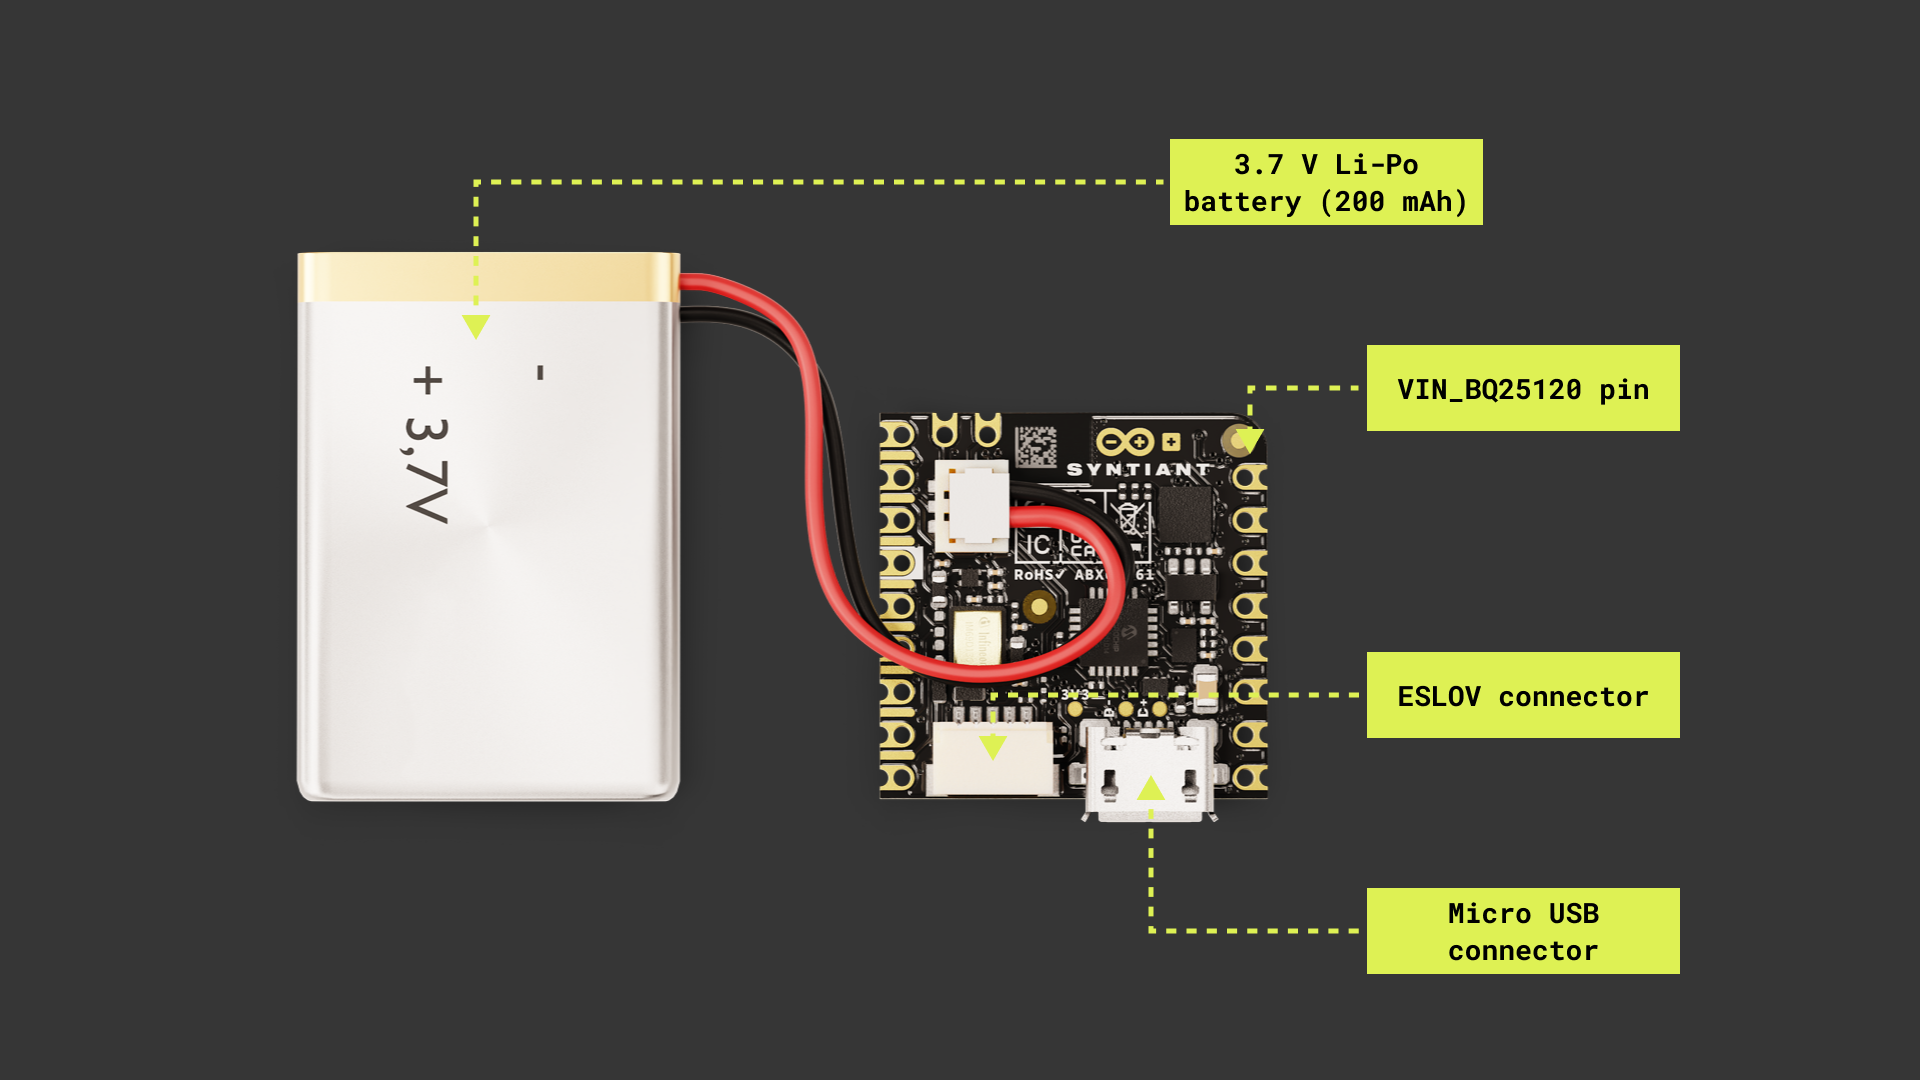
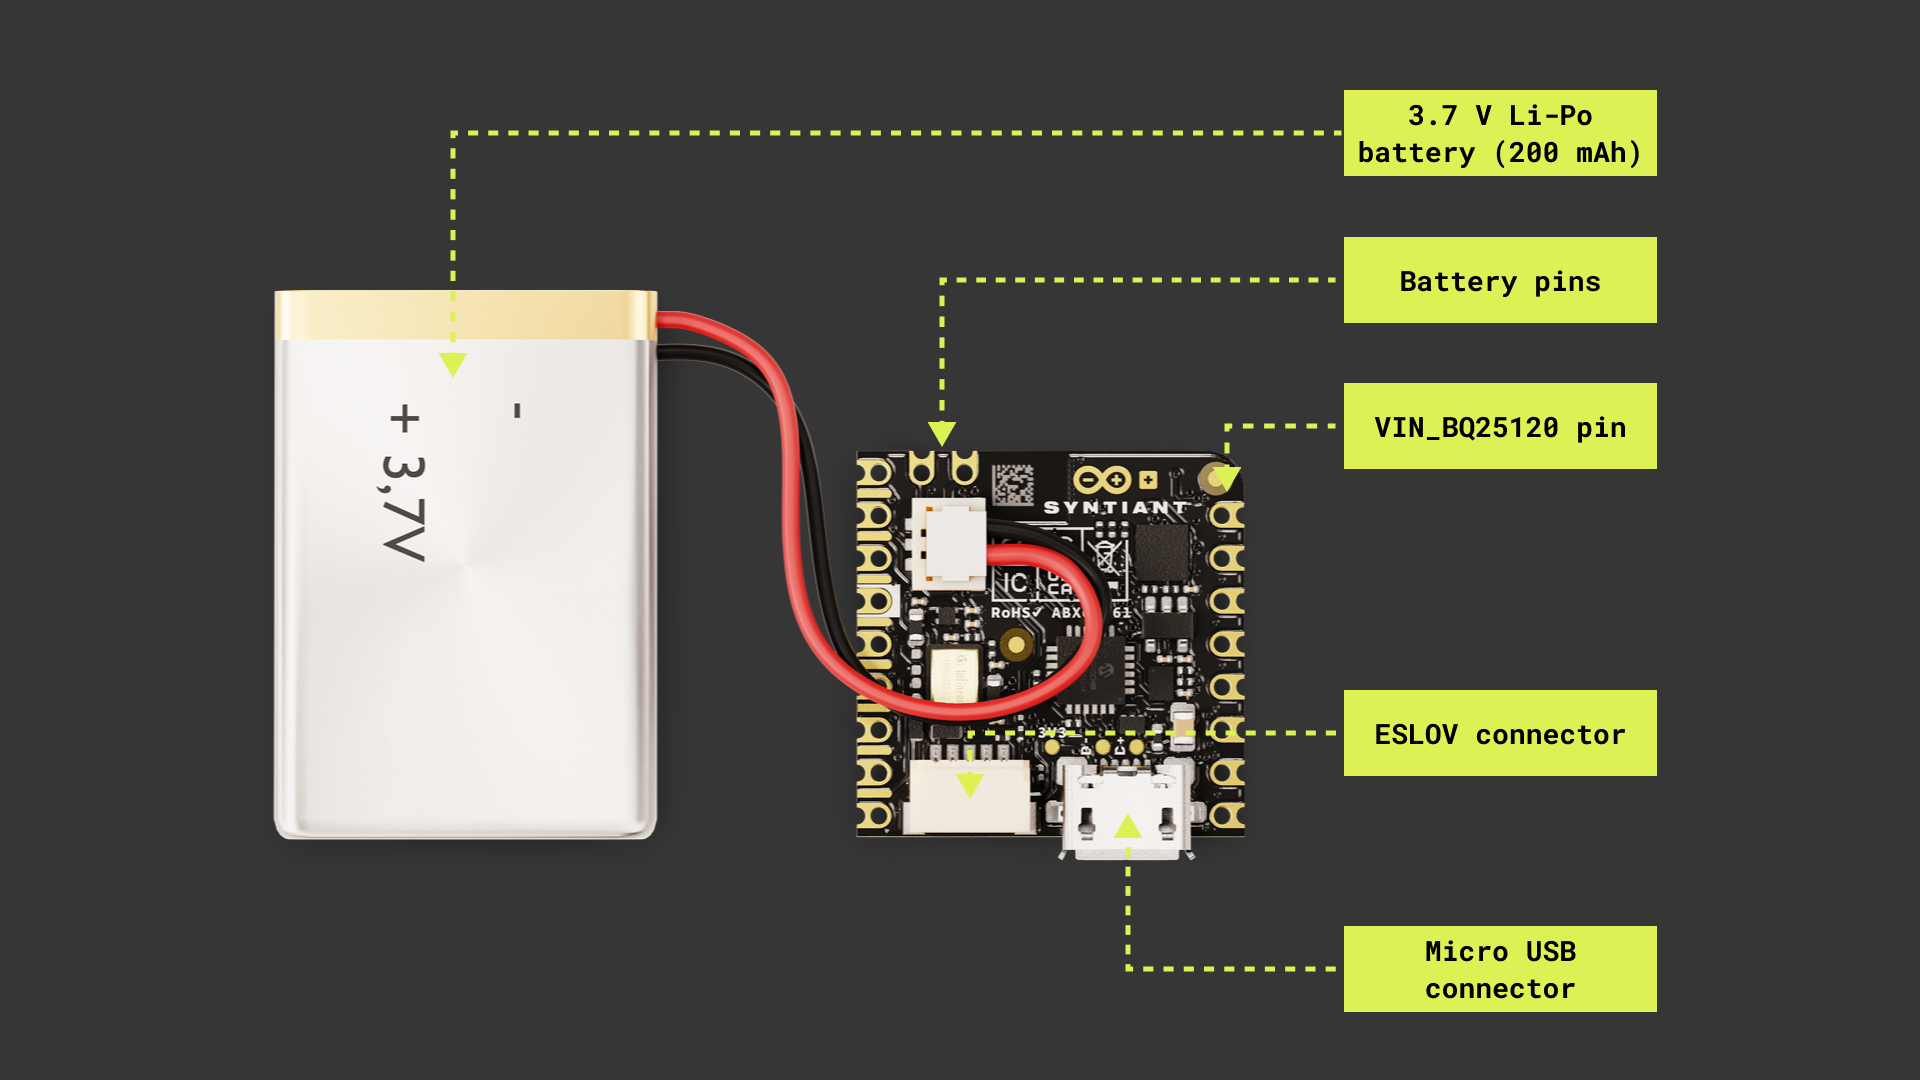
Content update (user manual updates)

Changed region(s): [[0.125, 0.0611, 0.875, 0.825], [0.6875, 0.825, 0.875, 0.9472], [0.1875, 0.3667, 0.25, 0.5194]]

diff --git a/content/hardware/06.nicla/boards/nicla-voice/tutorials/user-manual/content.md b/content/hardware/06.nicla/boards/nicla-voice/tutorials/user-manual/content.md
@@ -8,7 +8,7 @@ tags:
   - Cheat sheet
   - RGB
   - Communication
-author: 'Benjamin Dannegård and José Bagur'
+author: 'José Bagur and Benjamin Dannegård'
 hardware:
   - hardware/06.nicla/boards/nicla-voice
 software:
@@ -20,19 +20,19 @@ software:
 
 ## Overview
 
-This user manual will provide you with a comprehensive overview of the Arduino Nicla Voice board, covering its main hardware and software features. With this user manual, you will also learn how to set up, configure and use these features. 
+This user manual will provide you with a comprehensive overview of the Arduino Nicla Voice board, covering its main hardware and software features. This user manual will also teach you how to set up, configure, and use these features. 
 
 ## Hardware and Software Requirements
 
 ### Hardware Requirements
 
 - [Nicla Voice](https://store.arduino.cc/products/nicla-voice) (x1)
-- Micro USB cable (x1)
+- [Micro USB cable](https://store.arduino.cc/products/usb-2-0-cable-type-a-micro) (x1)
 
 ### Software Requirements
 
 - [Arduino IDE 1.8.10+](https://www.arduino.cc/en/software), [Arduino IDE 2.0+](https://www.arduino.cc/en/software), or [Arduino Web Editor](https://create.arduino.cc/editor)
-- To create custom Machine Learning models, the integrated Machine Learning Tools of the [Arduino Cloud](https://create.arduino.cc/iot/) are needed. In case you do not have an Arduino Cloud account, you will need to create one first.
+- To create custom Machine Learning models, the integrated [Machine Learning Tools](https://cloud.arduino.cc/machine-learning-tools/) of the [Arduino Cloud](https://create.arduino.cc/iot/) are needed. In case you do not have an Arduino Cloud account, you will need to create one first.
 
 ## Product Overview
 
@@ -40,7 +40,7 @@ The Nicla Voice is an innovative and versatile development board designed by the
 
 ### Board Architecture Overview
 
-The Nicla Voice features a robust and efficient architecture that integrates various components to enable speech, sound, and motion projects and applications. 
+The Nicla Voice features a robust and efficient architecture integrating various components to enable speech, sound, and motion projects and applications. 
 
 ![The Nicla Voice main components (top view)](assets/user-manual-2.png)
 
@@ -96,18 +96,34 @@ The complete STEP files are available and downloadable from the link below:
 The Nicla voice can be powered by:
 
 - Using a Micro USB cable (not included). 
-- Using an external **5V power supply** connected to `VIN_BQ25120` pin (please, refer to the [board pinout section](#pinout) of the user manual).
+- Using an external **5V power supply** connected to `VIN_BQ25120` pin (please refer to the [board pinout section](#pinout) of the user manual).
 - Using a **3.7V Lithium Polymer (Li-Po) battery** connected to the board through the onboard battery connector; the manufacturer part number of the battery connector is BM03B-ACHSS and its matching receptacle manufacturer part number is ACHR-03V-S. The **recommended minimum battery capacity for the Nicla Voice is 200 mAh**. A Li-Po battery with an integrated NTC thermistor is also recommended for thermal protection. 
 - Using the onboard **ESLOV connector**, which has a dedicated 5V power line.
 
 ![Different ways to power the Nicla Voice](assets/user-manual-6.png)
 
-The onboard battery charger of your board is, by default, **disabled**. To enable it, you can use the `enableCharge()` function defined in the Nicla Voice board core:
+***A 3.7V Li-Po battery can be also connected through the board's pins: `1 (NTC)`, `2 (VBAT)`, and `6 (GND)`. Please refer to the board's [pinout](#pinout) to locate those pins on your Nicla Voice board.***
+
+### Onboard Battery Charger
+<br></br>
+
+The onboard battery charger of your board is, by default, **disabled**. To enable it, you can use the `enableCharging()` function defined in the Nicla Voice board core:
 
 ```arduino
-// Enabling the battery charger 
-// The function parameter defines the charging current in mA
-nicla::enableCharge(100);
+// Enable the onboard battery charger 
+// The function parameter defines the charging current in mA (5, 35, 40 or 300 mA)
+nicla::enableCharging(100);
+```
+
+The desired charging current (in mA) can be set to 5 mA, 35 mA, 40 mA, or 300 mA; the default value is 20 mA.
+
+***A safe default charging current value that works for most common LiPo batteries is 0.5C, which means charging at a rate equal to half the battery's capacity. For example, a 200 mAh battery could be safely charged at 100 mA (0.1 A).***
+
+ To disable the onboard battery charger, you can use the `disableCharging()` function defined in the Nicla Voice board core:
+
+```arduino
+// Disable the onboard battery charger 
+nicla::disableCharging();
 ```
 
 ### NDP120 Processor Firmware Update
@@ -144,6 +160,7 @@ It is recommended to update the NDP120 processor firmware and the built-in speec
 After uploading the three files, your board's firmware is updated to the latest release and ready to be used.
 
 #### External Memory Format
+<br></br>
 
 Your board NDP120 processor files (firmware and models) are stored in your board's external Flash memory. It is recommended to **format your Nicla Voice external Flash memory** every time you are going to update the processor firmware or when you are going to update/add models to the external Flash memory.
 
@@ -931,7 +948,7 @@ Now open the IDE's Serial Plotter by navigating to **Tools > Serial Plotter**. A
 
 #### IMU and Machine Learning
 
-The example code below demonstrates how to use the Nicla Voice board to perform Machine Learning inference on IMU data. The code sets up event indicators using the onboard RGB LED and sends IMU data to the NDP processor for inference. The example can be found in the board's built-in examples by navigating to **File > Examples > NDP > IMUDemo**.
+The example code below demonstrates how to use the Nicla Voice board to perform Machine Learning (ML) inference on IMU data. The code sets up event indicators using the onboard RGB LED and sends IMU data to the NDP processor for inference. The example can be found in the board's built-in examples by navigating to **File > Examples > NDP > IMUDemo**.
 
 
 ```arduino
@@ -1021,11 +1038,15 @@ void loop() {
 }
 ```
 
-In the example code above, a Machine Learning model is loaded into the Nicla Voice board, and predefined IMU data is sent to the Machine Learning model for inferencing. Depending on the result, the board will light its built-in RGB LED with different colors:
+In the example code above, a ML model is loaded into the Nicla Voice board, and predefined IMU data is sent to the Machine Learning model for inferencing. Depending on the result, the board will light its built-in RGB LED with different colors:
 
 - If the model matches the input data with a known motion pattern, the built-in RGB LED is turned blue, and the event label is printed to the IDE's Serial Monitor.
 - If an error occurs, the built-in RGB LED will blink red continuously. 
 - While an event is recognized, the built-in RGB LED is turned on green.
+
+To learn more about your Nicla Voice board ML capabilities, check out the following tutorial and learn how to create a simple motion detection application: 
+
+- [Motion Detection with Nicla Voice and Machine Learning Tools](https://docs.arduino.cc/tutorials/nicla-voice/motion-detection-ml)
 
 ## Actuators
 
